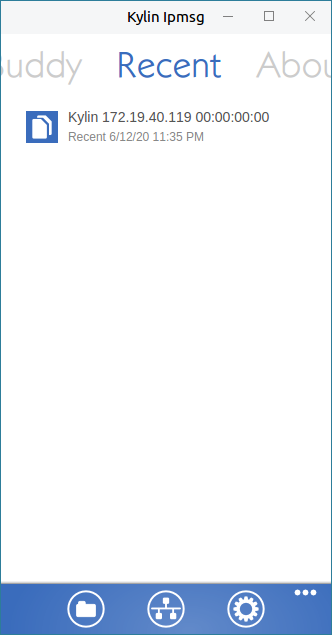
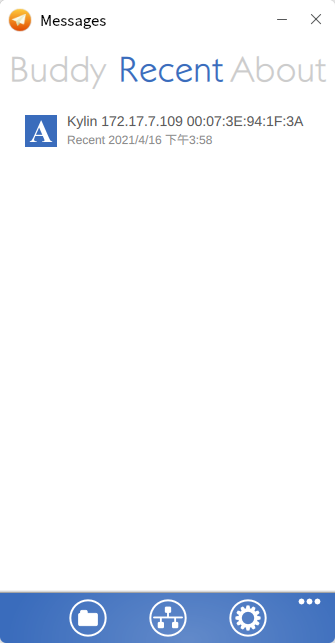
Update: 修改应用及用户手册中英文名

diff --git a/kylin-ipmsg_zh_CN.ts b/kylin-ipmsg_zh_CN.ts
@@ -5,8 +5,8 @@
     <name>AboutPage</name>
     <message>
         <location filename="qml/dukto/AboutPage.qml" line="44"/>
-        <source>Kylin Ipmsg</source>
-        <translation>麒麟传书</translation>
+        <source>Messages</source>
+        <translation>传书</translation>
     </message>
     <message>
         <location filename="qml/dukto/AboutPage.qml" line="66"/>
@@ -28,8 +28,8 @@
     <name>ChatWidget</name>
     <message>
         <location filename="chatwidget.ui" line="14"/>
-        <source>Kylin Ipmsg</source>
-        <translation>麒麟传书</translation>
+        <source>Messages</source>
+        <translation>传书</translation>
     </message>
     <message>
         <location filename="chatwidget.ui" line="36"/>
@@ -79,121 +79,121 @@
     <message>
         <source>The Remote IP Addr</source>
         <oldsource>Please input the remote IP address</oldsource>
-        <translation type="vanished">请输入对方的 IP 地址</translation>
+        <translation>请输入对方的 IP 地址</translation>
     </message>
     <message>
         <source>Show Remote IP Addr</source>
-        <translation type="vanished">对方的 IP 地址</translation>
+        <translation>对方的 IP 地址</translation>
     </message>
     <message>
         <source>Me</source>
-        <translation type="vanished">我</translation>
+        <translation>我</translation>
     </message>
     <message>
         <source>file sent out</source>
-        <translation type="vanished">发送了文件</translation>
+        <translation>发送了文件</translation>
     </message>
     <message>
         <source>dir sent out</source>
-        <translation type="vanished">发送了文件夹</translation>
+        <translation>发送了文件夹</translation>
     </message>
     <message>
         <source>This is your Ip Addr</source>
-        <translation type="vanished">这是你自己的IP地址</translation>
+        <translation>这是你自己的IP地址</translation>
     </message>
     <message>
         <source>IP already exist in buddies</source>
-        <translation type="vanished">已有该IP好友，请点击好友打开聊天界面</translation>
+        <translation>已有该IP好友，请点击好友打开聊天界面</translation>
     </message>
     <message>
         <source>Illegal IP address</source>
-        <translation type="vanished">输入的IP地址不合法</translation>
+        <translation>输入的IP地址不合法</translation>
     </message>
     <message>
         <source>Remoter has stoped the transfer</source>
-        <translation type="vanished">对方中止了文件传输</translation>
+        <translation>对方中止了文件传输</translation>
     </message>
     <message>
         <source>pls choose files to send</source>
-        <translation type="vanished">请选择要发送的文件</translation>
+        <translation>请选择要发送的文件</translation>
     </message>
     <message>
         <source>pls choose dir to send</source>
-        <translation type="vanished">请选择要发送的文件夹</translation>
+        <translation>请选择要发送的文件夹</translation>
     </message>
     <message>
         <source>pls do not send empty dir</source>
-        <translation type="vanished">请勿发送空文件夹</translation>
+        <translation>请勿发送空文件夹</translation>
     </message>
     <message>
         <source>transmission canceled</source>
-        <translation type="vanished">文件传输已取消</translation>
+        <translation>文件传输已取消</translation>
     </message>
     <message>
         <source>conn failed, try again later</source>
-        <translation type="vanished">连接失败，请确认好友在线，稍后再试</translation>
+        <translation>连接失败，请确认好友在线，稍后再试</translation>
     </message>
     <message>
         <source>transmission error</source>
-        <translation type="vanished">数据传输错误</translation>
+        <translation>数据传输错误</translation>
     </message>
     <message>
         <source>connecting...</source>
-        <translation type="vanished">正在尝试连接</translation>
+        <translation>正在尝试连接</translation>
     </message>
 </context>
 <context>
     <name>DuktoWindow</name>
     <message>
-        <source>Kylin Ipmsg</source>
-        <translation type="vanished">麒麟传书</translation>
+        <source>Messages</source>
+        <translation>传书</translation>
     </message>
 </context>
 <context>
     <name>GuiBehind</name>
     <message>
         <source> (You)</source>
-        <translation type="vanished"> (本机)</translation>
+        <translation> (本机)</translation>
     </message>
     <message>
         <source>Use IP Address</source>
-        <translation type="vanished">使用 IP 地址</translation>
+        <translation>使用 IP 地址</translation>
     </message>
     <message>
         <source>Received file</source>
-        <translation type="vanished">收到文件</translation>
+        <translation>收到文件</translation>
     </message>
     <message>
         <source>files</source>
-        <translation type="vanished">个</translation>
+        <translation>个</translation>
     </message>
     <message>
         <source>size</source>
-        <translation type="vanished">大小</translation>
+        <translation>大小</translation>
     </message>
     <message>
         <source>Open directory</source>
-        <translation type="vanished">打开目录</translation>
+        <translation>打开目录</translation>
     </message>
     <message>
         <source>Received folder</source>
-        <translation type="vanished">收到文件夹</translation>
+        <translation>收到文件夹</translation>
     </message>
     <message>
         <source>Open</source>
-        <translation type="vanished">打开</translation>
+        <translation>打开</translation>
     </message>
     <message>
         <source>Total size</source>
-        <translation type="vanished">共计大小</translation>
+        <translation>共计大小</translation>
     </message>
     <message>
         <source>Contact with parent network</source>
-        <translation type="vanished">向你的上层网络发送消息</translation>
+        <translation>向你的上层网络发送消息</translation>
     </message>
     <message>
         <source>Change folder</source>
-        <translation type="vanished">更改目录</translation>
+        <translation>更改目录</translation>
     </message>
 </context>
 <context>

diff --git a/qml/kylin-ipmsg_bo_CN.ts b/qml/kylin-ipmsg_bo_CN.ts
@@ -5,7 +5,7 @@
     <name>AboutPage</name>
     <message>
         <location filename="qml/dukto/AboutPage.qml" line="44"/>
-        <source>Kylin Ipmsg</source>
+        <source>Messages</source>
         <translation>ཆི་ལིན་འཕྲིན་སྐྱེལ།</translation>
     </message>
     <message>
@@ -28,7 +28,7 @@
     <name>ChatWidget</name>
     <message>
         <location filename="chatwidget.ui" line="14"/>
-        <source>Kylin Ipmsg</source>
+        <source>Messages</source>
         <translation>ཆི་ལིན་འཕྲིན་སྐྱེལ།</translation>
     </message>
     <message>

diff --git a/qml/dukto/AboutPage.qml b/qml/dukto/AboutPage.qml
@@ -41,7 +41,7 @@ Item {
         x: 22
         y: 85
         font.pixelSize: 72
-        text: qsTr("Kylin Ipmsg") + " " + guiBehind.appVersion
+        text: qsTr("Messages") + " " + guiBehind.appVersion
         color: theme.color4
     }
 

diff --git a/duktowindow.cpp b/duktowindow.cpp
@@ -25,7 +25,7 @@
 DuktoWindow::DuktoWindow(QWindow *parent) :
     QmlApplicationViewer(parent), mGuiBehind(NULL){
 
-    this->setTitle(tr("Kylin Ipmsg"));
+    this->setTitle(tr("Messages"));
 //    this->setIcon(QIcon("/usr/share/pixmaps/kylin-ipmsg.png"));
     // this->setIcon(QIcon::fromTheme("kylin-ipmsg"));
 

diff --git a/data/guide/kylin-ipmsg/zh_CN/index.md b/data/guide/kylin-ipmsg/zh_CN/index.md
@@ -1,10 +1,10 @@
-# 麒麟传书
+# 传书
 ## 概 述
-麒麟传书是一个跨平台、高效的文字/文件传输工具。在用户传输文件时，会与本地文件名相互比较，避免覆盖原有的文件，损失重要信息。
+传书是一个跨平台、高效的文字/文件传输工具。在用户传输文件时，会与本地文件名相互比较，避免覆盖原有的文件，损失重要信息。
 
-麒麟传书无服务器设计，所有功能通过客户端完成。
+传书无服务器设计，所有功能通过客户端完成。
 
-![图 1 麒麟传书主界面](image/1.png)
+![图 1 传书主界面](image/1.png)
 <br>
 
 ### 查看已接收文件
@@ -37,4 +37,4 @@
 ### 最近和关于
 在主界面有三个标签页，点击“最近”，则切换到最近交谈消息管理页面。点击列表记录中的某条记录，则弹出与该用户通信的消息对话框，并显示之前的交谈记录。
 
-点击“关于”，可查看麒麟传书关于信息。
+点击“关于”，可查看传书关于信息。

diff --git a/data/guide/kylin-ipmsg/en_US/index.md b/data/guide/kylin-ipmsg/en_US/index.md
@@ -1,10 +1,10 @@
-# Kylin Ipmsg
+# Messages
 ## Overview
-Kylin Ipmsg is a cross platforms, efficient text/files transfer tool. And in order to avoid overwriting the original files, it will compare with the local file name when users transfer files.
+Messages is a cross platforms, efficient text/files transfer tool. And in order to avoid overwriting the original files, it will compare with the local file name when users transfer files.
 
 All the functions are completed without server. 
 
-![Fig 1 Kylin Ipmsg](image/1.png)
+![Fig 1 Messages](image/1.png)
 <br>
 
 ## View Received Files
@@ -57,6 +57,4 @@ It shows the communication recorders, and click one recorder to open the corresp
 <br>
 
 ## About
-Click "About" in the main interface to see the details of Kylin Ipmsg, as shown in Fig 10.
-
-![Fig 10 About](image/10.png)
+Click "About" in the main interface to see the details of Messages.
